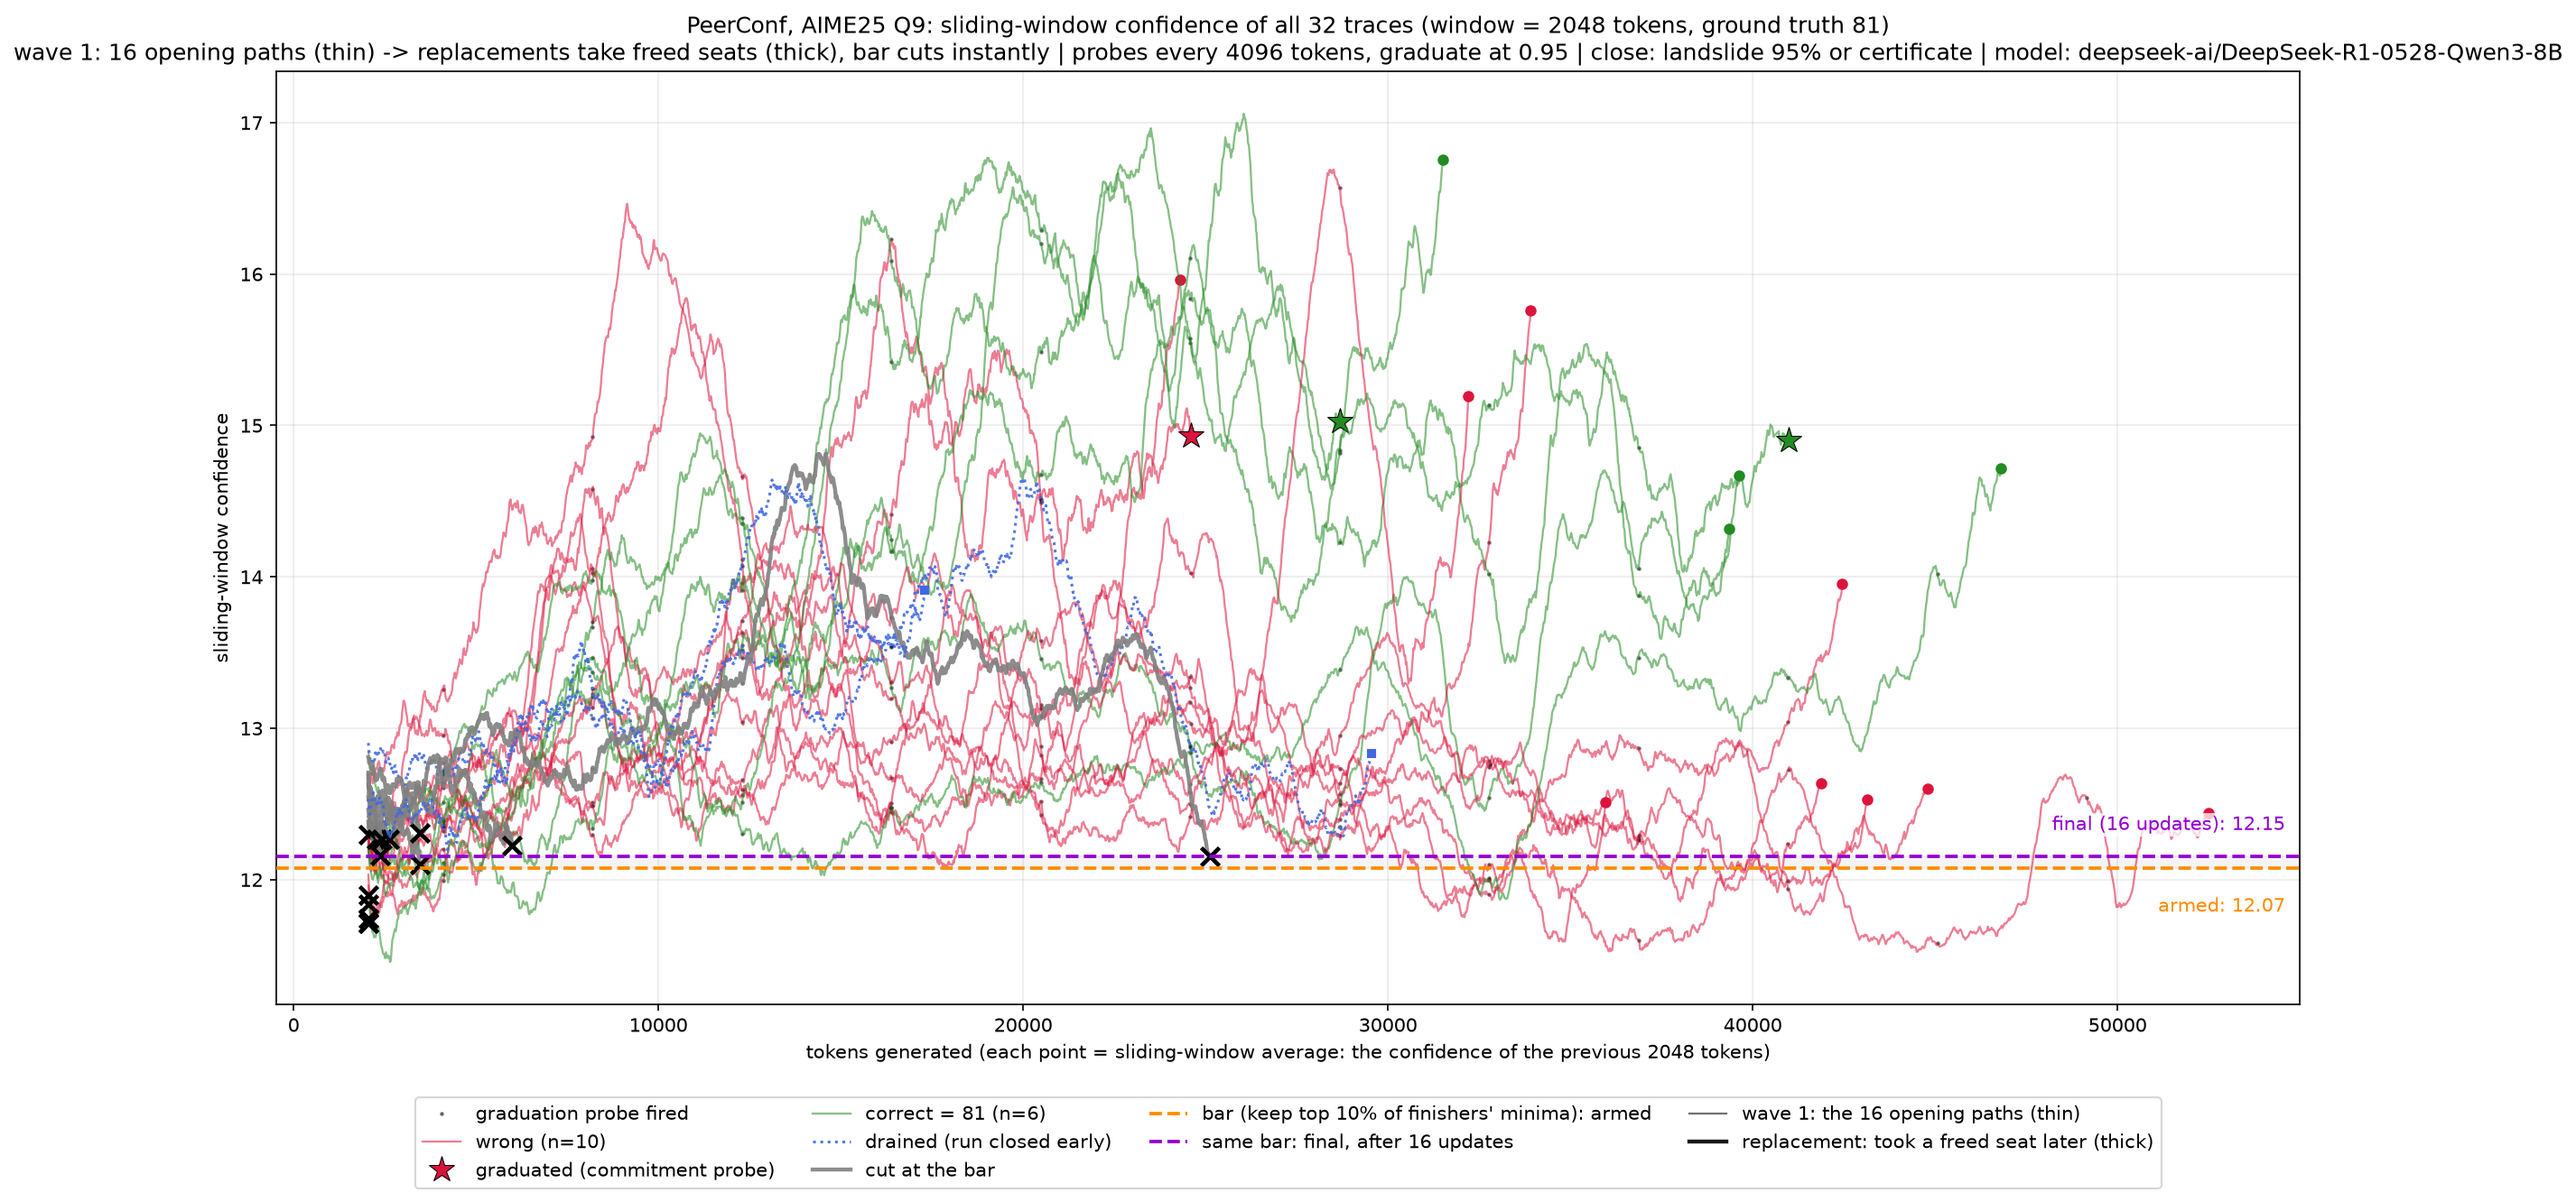
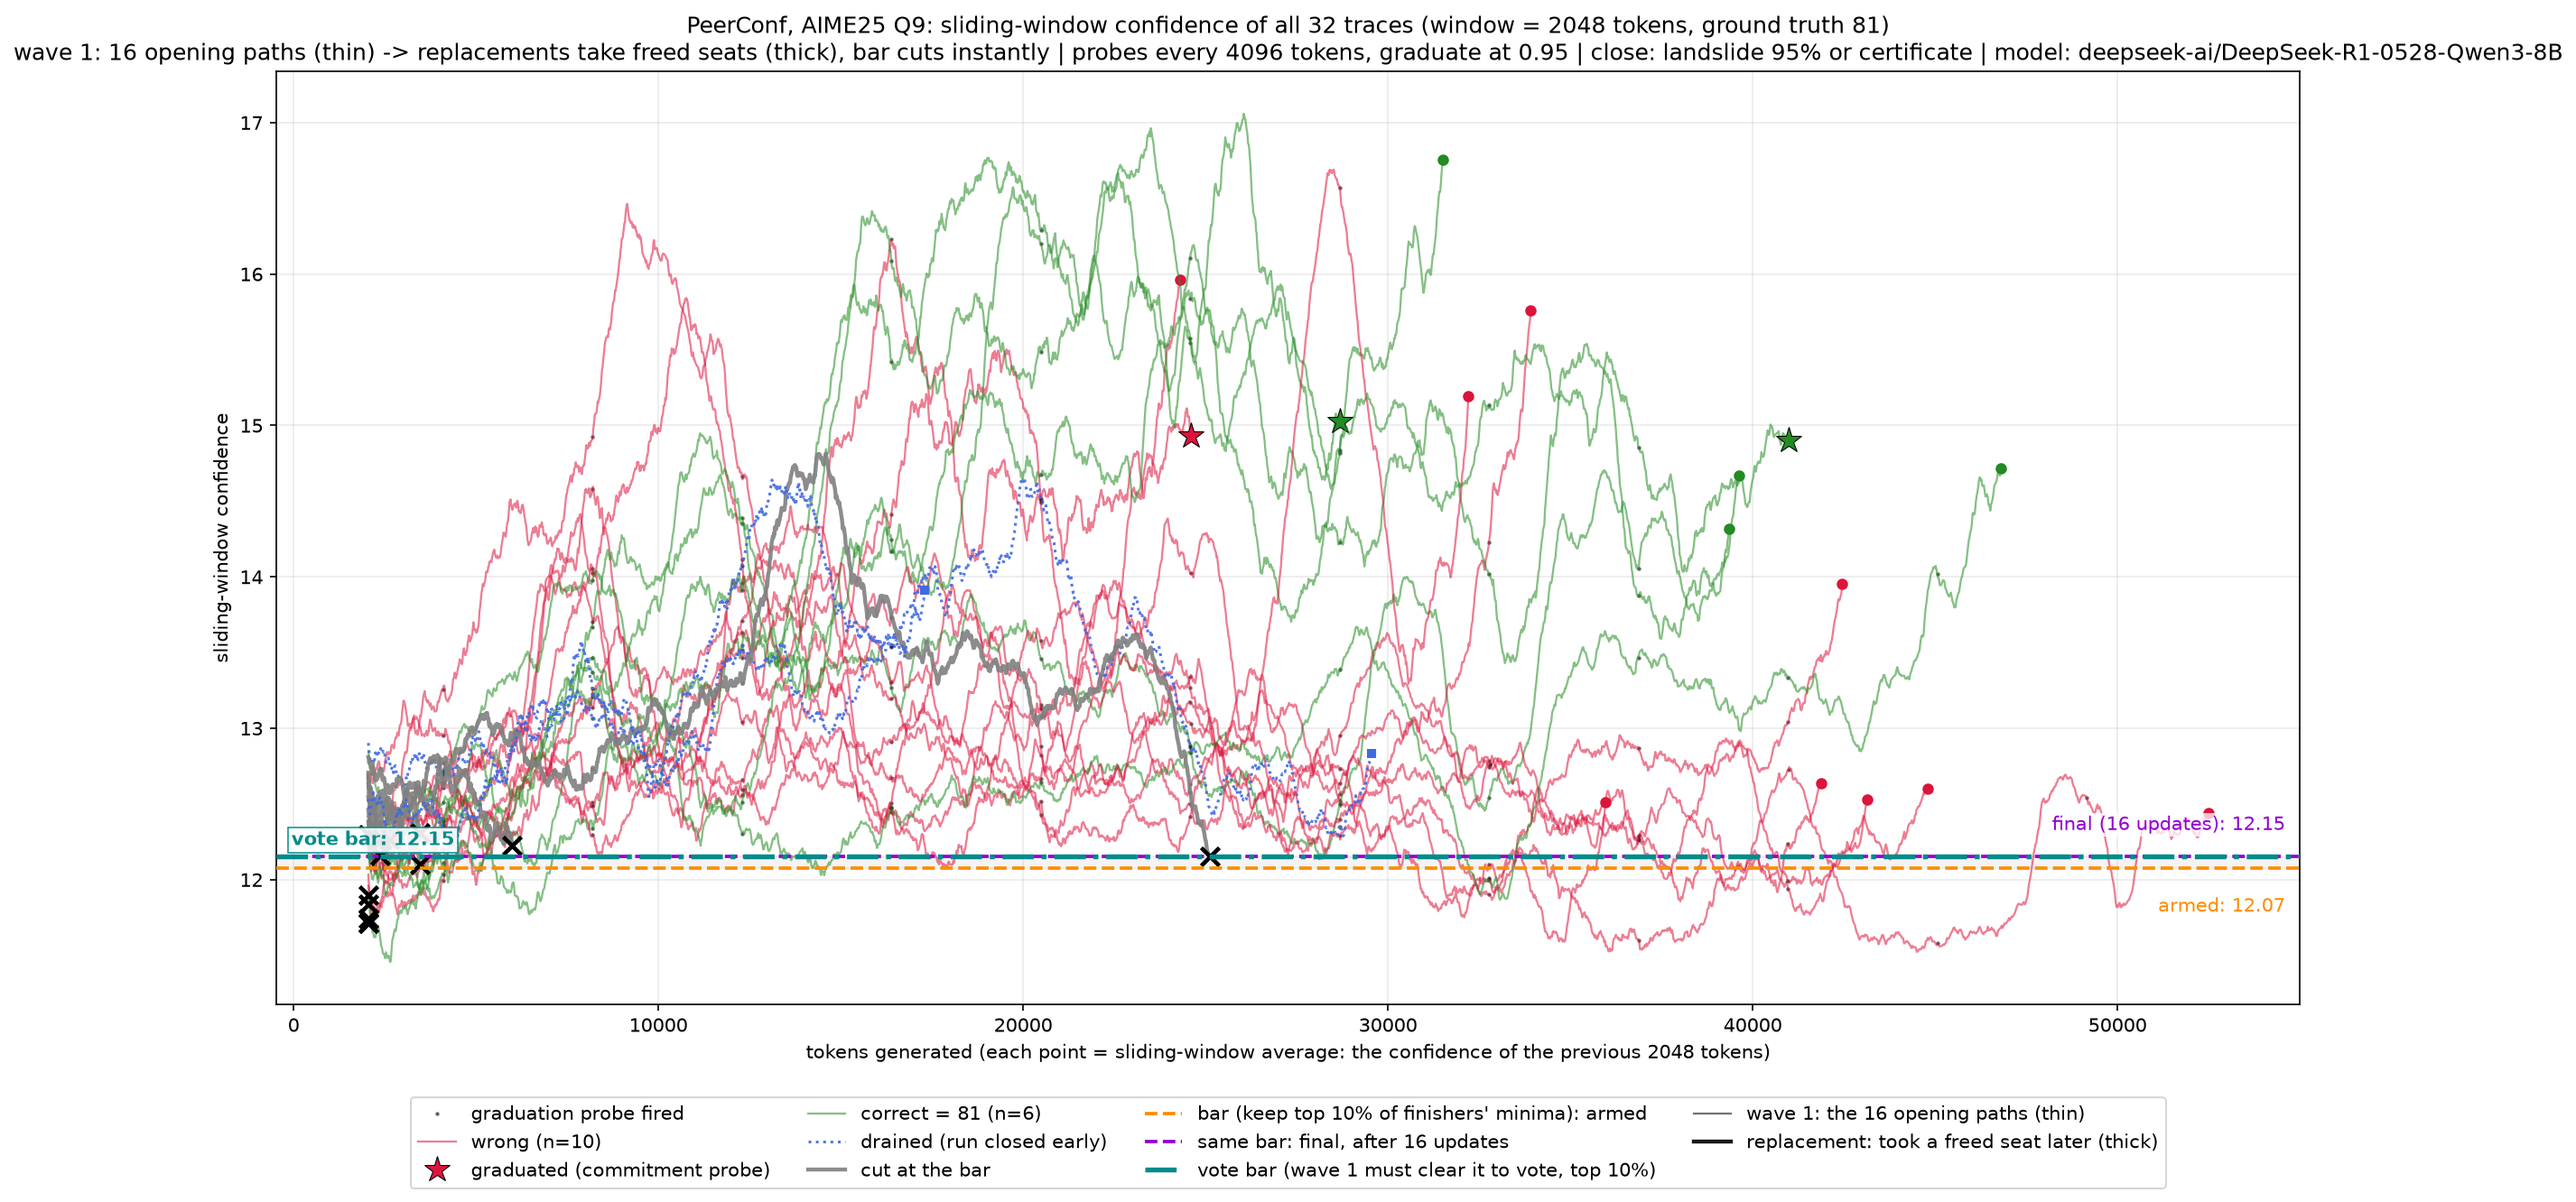
a drained path never had a real minimum

diff --git a/peerconf/cell2_run.py b/peerconf/cell2_run.py
@@ -204,7 +204,11 @@ def freeze_vote_bar():
     global vote_bar
     if vote_bar is not None:
         return
-    if any(t.status == "running" for t in traces if t.id < SEATS):
+    # "departed" has to mean the path ended on its own terms. A run that closes
+    # on 3 finishers drains the rest of wave 1, and a drained path never reached
+    # its own worst moment — calibrating on it would invent a bar out of paths
+    # that were cut off mid-thought.
+    if any(t.status in ("running", "abandoned") for t in traces if t.id < SEATS):
         return
     mins = [min(t.confs) for t in traces if t.id < SEATS and t.confs]
     if mins:
@@ -213,12 +217,10 @@ def freeze_vote_bar():
               f"(keep top {BAR_KEEP_TOP}% of {len(mins)} wave-1 minima)")
 
 def consensus_check():
-    global vote_bar_used
     piles = {}
     for t in traces:
         if t.status == "finished" and t.answer is not None and t.confs:
             if vote_bar is not None and t.id < SEATS and min(t.confs) < vote_bar:
-                vote_bar_used = True          # it really did take a ballot away
                 continue                      # wave-1 path below the vote bar
             piles[t.answer] = piles.get(t.answer, 0.0) + min(t.confs)
     if not piles: return None, 0.0
@@ -420,10 +422,6 @@ for QID in QIDS:
     launched  = SEATS
     bar       = None             # armed by update_bar() at BAR_MIN_CALIBRATORS finishers
     vote_bar  = None             # frozen once wave 1 has departed; filters who votes
-    vote_bar_used = False        # did it ever actually remove a ballot? a run that
-                                 # closes before wave 1 departs freezes a bar that
-                                 # never judges anything, and the figure should not
-                                 # draw a line that did no work
     LINE_HISTORY = []            # game tape: the bar at every update, for the figure
     t_start   = time.time()
     events    = queue.Queue()    # (trace, payload|None, error|None) from worker threads
@@ -655,8 +653,7 @@ for QID in QIDS:
                                 "MAX_TOK_TRACE": MAX_TOK_TRACE,
                                 "CONSENSUS": CONSENSUS,
                                 "final_bar": bar,
-                                "vote_bar": vote_bar,
-                                "vote_bar_used": vote_bar_used},
+                                "vote_bar": vote_bar},
                      "voting": voting_results, "tokens": total_tokens,
                      "time_s": round(time.time() - t_start, 2),
                      "probe_tokens": probe_tokens,

diff --git a/peerconf/cell3_confidence_timeline.py b/peerconf/cell3_confidence_timeline.py
@@ -161,9 +161,9 @@ def draw_timeline(fname):
     # the vote bar, on the questions that reached it: once wave 1 has departed,
     # a wave-1 path below this line no longer votes. Absent where the run closed
     # before wave 1 was done, so nothing is drawn there.
-    # a run that closes before wave 1 has departed freezes a bar that never
-    # judges anything; drawing it there implied work it did not do
-    vbar = cfg.get("vote_bar") if cfg.get("vote_bar_used") else None
+    # present only on runs whose wave 1 actually ran itself out; a run that
+    # closed early and drained wave 1 never has one
+    vbar = cfg.get("vote_bar")
     if vbar is not None:
         ax.axhline(vbar, color="darkcyan", ls="-.", lw=2.6, zorder=7,
                    label=f"vote bar (wave 1 must clear it to vote, top {keep}%)")
